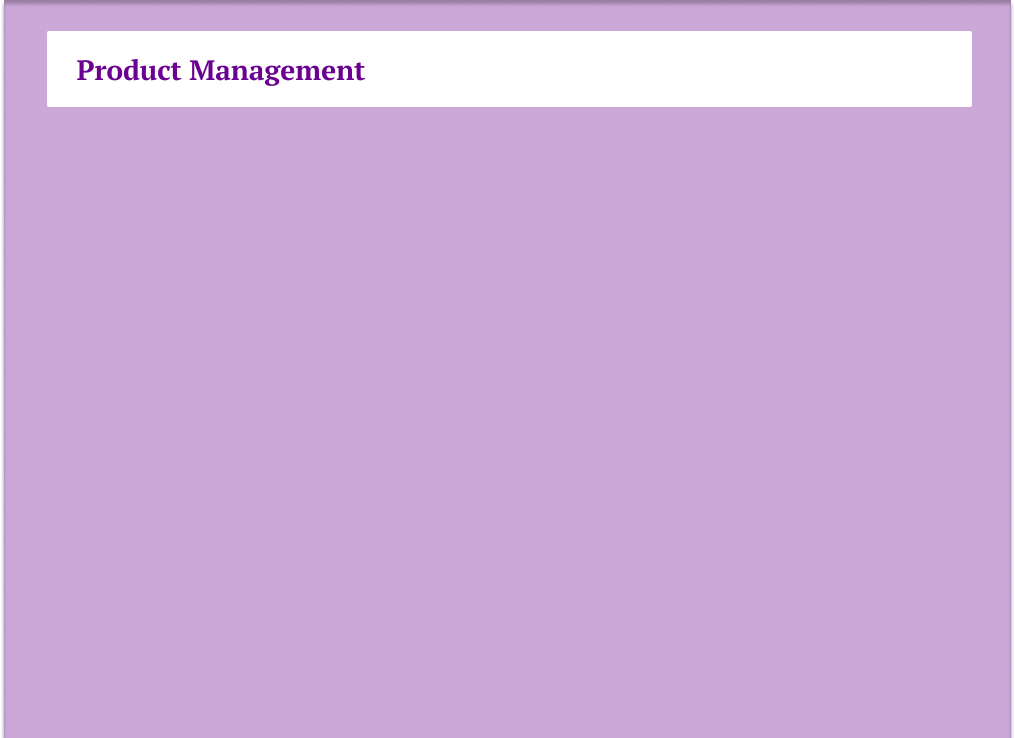
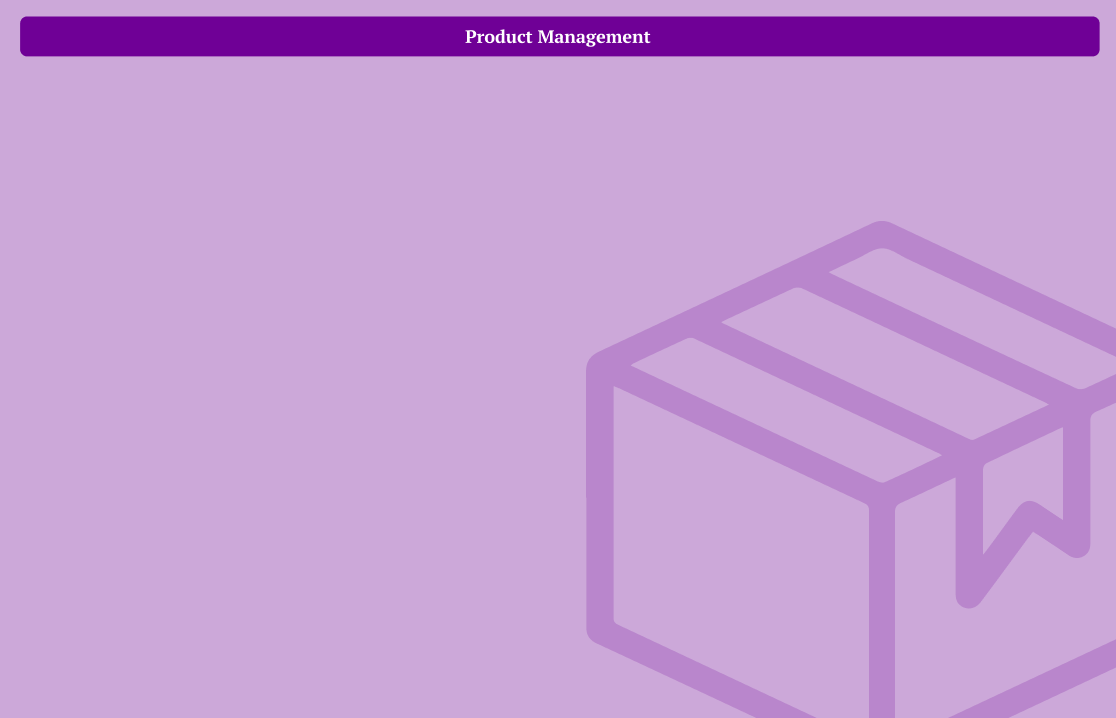
2023-11-16

Changed region(s): [[0.0, 0.0, 1.0, 1.0]]

diff --git a/src/main/java/com/zx/shopmanagementsystem/forms/ProductManagement.java b/src/main/java/com/zx/shopmanagementsystem/forms/ProductManagement.java
@@ -24,7 +24,7 @@ public class ProductManagement extends javax.swing.JPanel {
      */
     Func func = new Func();
     IconLocation il = new IconLocation();
-    
+
     public ProductManagement() {
         initComponents();
     }
@@ -46,7 +46,7 @@ public class ProductManagement extends javax.swing.JPanel {
         addStoreLocationBtnLbl = new javax.swing.JLabel();
         iconLbl = new javax.swing.JLabel();
 
-        setPreferredSize(new java.awt.Dimension(1015, 738));
+        setPreferredSize(new java.awt.Dimension(1116, 718));
         setLayout(new org.netbeans.lib.awtextra.AbsoluteLayout());
 
         addProductTypeBtnLbl.setIcon(new javax.swing.ImageIcon("C:\\ShopManagementSystem\\src\\main\\java\\com\\zx\\shopmanagementsystem\\icons\\AddProductTypePurple.png")); // NOI18N
@@ -140,99 +140,99 @@ public class ProductManagement extends javax.swing.JPanel {
         add(addStoreLocationBtnLbl, new org.netbeans.lib.awtextra.AbsoluteConstraints(660, 340, -1, -1));
 
         iconLbl.setIcon(new javax.swing.ImageIcon("C:\\ShopManagementSystem\\src\\main\\java\\com\\zx\\shopmanagementsystem\\images\\ProductManagement.png")); // NOI18N
-        add(iconLbl, new org.netbeans.lib.awtextra.AbsoluteConstraints(0, 0, 1015, 738));
+        add(iconLbl, new org.netbeans.lib.awtextra.AbsoluteConstraints(0, 0, 1116, 718));
     }// </editor-fold>//GEN-END:initComponents
 
     private void addProductBtnLblMouseEntered(java.awt.event.MouseEvent evt) {//GEN-FIRST:event_addProductBtnLblMouseEntered
         // TODO add your handling code here:
         func.iconSetter(addProductBtnLbl, il.addProductWhiteIcon);
     }//GEN-LAST:event_addProductBtnLblMouseEntered
-    
+
     private void addProductBtnLblMouseExited(java.awt.event.MouseEvent evt) {//GEN-FIRST:event_addProductBtnLblMouseExited
         // TODO add your handling code here:
         func.iconSetter(addProductBtnLbl, il.addProductPurpleIcon);
     }//GEN-LAST:event_addProductBtnLblMouseExited
-    
+
     private void addProductCategoryBtnLblMouseEntered(java.awt.event.MouseEvent evt) {//GEN-FIRST:event_addProductCategoryBtnLblMouseEntered
         // TODO add your handling code here:
         func.iconSetter(addProductCategoryBtnLbl, il.addProductCategoryWhiteIcon);
     }//GEN-LAST:event_addProductCategoryBtnLblMouseEntered
-    
+
     private void addProductCategoryBtnLblMouseExited(java.awt.event.MouseEvent evt) {//GEN-FIRST:event_addProductCategoryBtnLblMouseExited
         // TODO add your handling code here:
         func.iconSetter(addProductCategoryBtnLbl, il.addProductCategoryPurpleIcon);
     }//GEN-LAST:event_addProductCategoryBtnLblMouseExited
-    
+
     private void addProductTypeBtnLblMouseEntered(java.awt.event.MouseEvent evt) {//GEN-FIRST:event_addProductTypeBtnLblMouseEntered
         // TODO add your handling code here:
         func.iconSetter(addProductTypeBtnLbl, il.addProductTypeWhiteIcon);
     }//GEN-LAST:event_addProductTypeBtnLblMouseEntered
-    
+
     private void addProductTypeBtnLblMouseExited(java.awt.event.MouseEvent evt) {//GEN-FIRST:event_addProductTypeBtnLblMouseExited
         // TODO add your handling code here:
         func.iconSetter(addProductTypeBtnLbl, il.addProductTypePurpleIcon);
     }//GEN-LAST:event_addProductTypeBtnLblMouseExited
-    
+
     private void addDiscountBrnLblMouseEntered(java.awt.event.MouseEvent evt) {//GEN-FIRST:event_addDiscountBrnLblMouseEntered
         // TODO add your handling code here:
         func.iconSetter(addDiscountBrnLbl, il.addDiscountWhiteIcon);
     }//GEN-LAST:event_addDiscountBrnLblMouseEntered
-    
+
     private void addDiscountBrnLblMouseExited(java.awt.event.MouseEvent evt) {//GEN-FIRST:event_addDiscountBrnLblMouseExited
         // TODO add your handling code here:
         func.iconSetter(addDiscountBrnLbl, il.addDiscountPurpleIcon);
     }//GEN-LAST:event_addDiscountBrnLblMouseExited
-    
+
     private void addBarcodeBtnLblMouseEntered(java.awt.event.MouseEvent evt) {//GEN-FIRST:event_addBarcodeBtnLblMouseEntered
         // TODO add your handling code here:
         func.iconSetter(addBarcodeBtnLbl, il.addBarcodeWhiteIcon);
     }//GEN-LAST:event_addBarcodeBtnLblMouseEntered
-    
+
     private void addBarcodeBtnLblMouseExited(java.awt.event.MouseEvent evt) {//GEN-FIRST:event_addBarcodeBtnLblMouseExited
         // TODO add your handling code here:
         func.iconSetter(addBarcodeBtnLbl, il.addBarcodePurpleIcon);
     }//GEN-LAST:event_addBarcodeBtnLblMouseExited
-    
+
     private void addStoreLocationBtnLblMouseEntered(java.awt.event.MouseEvent evt) {//GEN-FIRST:event_addStoreLocationBtnLblMouseEntered
         // TODO add your handling code here:
         func.iconSetter(addStoreLocationBtnLbl, il.addStoreLocationWhiteIcon);
     }//GEN-LAST:event_addStoreLocationBtnLblMouseEntered
-    
+
     private void addStoreLocationBtnLblMouseExited(java.awt.event.MouseEvent evt) {//GEN-FIRST:event_addStoreLocationBtnLblMouseExited
         // TODO add your handling code here:
         func.iconSetter(addStoreLocationBtnLbl, il.addStoreLocationPurpleIcon);
     }//GEN-LAST:event_addStoreLocationBtnLblMouseExited
-    
+
     private void addBarcodeBtnLblMouseClicked(java.awt.event.MouseEvent evt) {//GEN-FIRST:event_addBarcodeBtnLblMouseClicked
         // TODO add your handling code here:
         AddBarcode addbarcode = new AddBarcode();
         addbarcode.setVisible(true);
     }//GEN-LAST:event_addBarcodeBtnLblMouseClicked
-    
+
     private void addDiscountBrnLblMouseClicked(java.awt.event.MouseEvent evt) {//GEN-FIRST:event_addDiscountBrnLblMouseClicked
         // TODO add your handling code here:
         AddDiscount ad = new AddDiscount();
         ad.setVisible(true);
     }//GEN-LAST:event_addDiscountBrnLblMouseClicked
-    
+
     private void addProductCategoryBtnLblMouseClicked(java.awt.event.MouseEvent evt) {//GEN-FIRST:event_addProductCategoryBtnLblMouseClicked
         // TODO add your handling code here:
         AddProductCategory apc = new AddProductCategory();
         apc.setVisible(true);
     }//GEN-LAST:event_addProductCategoryBtnLblMouseClicked
-    
+
     private void addProductTypeBtnLblMouseClicked(java.awt.event.MouseEvent evt) {//GEN-FIRST:event_addProductTypeBtnLblMouseClicked
         // TODO add your handling code here:
         AddProductType apt = new AddProductType();
         apt.setVisible(true);
     }//GEN-LAST:event_addProductTypeBtnLblMouseClicked
-    
+
     private void addStoreLocationBtnLblMouseClicked(java.awt.event.MouseEvent evt) {//GEN-FIRST:event_addStoreLocationBtnLblMouseClicked
         // TODO add your handling code here:
         AddStoreLocation asl = new AddStoreLocation();
         asl.setVisible(true);
     }//GEN-LAST:event_addStoreLocationBtnLblMouseClicked
-    
+
     private void addProductBtnLblMouseClicked(java.awt.event.MouseEvent evt) {//GEN-FIRST:event_addProductBtnLblMouseClicked
         // TODO add your handling code here:
         AddProduct ap = new AddProduct();

diff --git a/src/main/java/com/zx/shopmanagementsystem/ui/DashboardAdmin.java b/src/main/java/com/zx/shopmanagementsystem/ui/DashboardAdmin.java
@@ -19,7 +19,6 @@ import com.zx.shopmanagementsystem.forms.InvoiceCreation;
 import com.zx.shopmanagementsystem.forms.ProductManagement;
 import com.zx.shopmanagementsystem.forms.ProductPerformance;
 import com.zx.shopmanagementsystem.forms.ReportGeneration;
-import com.zx.shopmanagementsystem.forms.Settings;
 import com.zx.shopmanagementsystem.forms.SupplierManagement;
 import com.zx.shopmanagementsystem.forms.UserManagement;
 import com.zx.shopmanagementsystem.menu.ui.MenuEvent;
@@ -30,8 +29,6 @@ import java.awt.Toolkit;
 import java.io.File;
 import java.io.FileInputStream;
 import java.io.FileOutputStream;
-import java.io.FileWriter;
-import java.io.IOException;
 import java.io.InputStream;
 import java.sql.ResultSet;
 import java.util.Properties;
@@ -124,7 +121,7 @@ public class DashboardAdmin extends javax.swing.JFrame {
         setUndecorated(true);
         setResizable(false);
 
-        jPanel1.setPreferredSize(new java.awt.Dimension(1366, 770));
+        jPanel1.setPreferredSize(new java.awt.Dimension(1366, 768));
 
         header1.setPreferredSize(new java.awt.Dimension(167, 50));
         header1.addMouseListener(new java.awt.event.MouseAdapter() {
@@ -178,16 +175,22 @@ public class DashboardAdmin extends javax.swing.JFrame {
                 .addContainerGap()
                 .addGroup(header1Layout.createParallelGroup(javax.swing.GroupLayout.Alignment.LEADING)
                     .addGroup(header1Layout.createSequentialGroup()
-                        .addGroup(header1Layout.createParallelGroup(javax.swing.GroupLayout.Alignment.LEADING)
-                            .addComponent(closeBtnLbl)
-                            .addComponent(minimizeBtnLbl))
-                        .addGap(0, 8, Short.MAX_VALUE))
+                        .addGap(17, 17, 17)
+                        .addComponent(minimizeBtnLbl)
+                        .addGap(0, 18, Short.MAX_VALUE))
                     .addComponent(imageAvatar, javax.swing.GroupLayout.Alignment.TRAILING, javax.swing.GroupLayout.DEFAULT_SIZE, javax.swing.GroupLayout.DEFAULT_SIZE, Short.MAX_VALUE))
                 .addContainerGap())
+            .addGroup(header1Layout.createSequentialGroup()
+                .addGap(15, 15, 15)
+                .addComponent(closeBtnLbl)
+                .addContainerGap(javax.swing.GroupLayout.DEFAULT_SIZE, Short.MAX_VALUE))
         );
 
         scrollPaneWin111.setBorder(null);
         scrollPaneWin111.setViewportView(menu1);
+
+        body.setPreferredSize(new java.awt.Dimension(1116, 718));
+        body.setLayout(new javax.swing.BoxLayout(body, javax.swing.BoxLayout.LINE_AXIS));
 
         javax.swing.GroupLayout jPanel1Layout = new javax.swing.GroupLayout(jPanel1);
         jPanel1.setLayout(jPanel1Layout);
@@ -204,8 +207,8 @@ public class DashboardAdmin extends javax.swing.JFrame {
             .addGroup(jPanel1Layout.createSequentialGroup()
                 .addComponent(header1, javax.swing.GroupLayout.PREFERRED_SIZE, javax.swing.GroupLayout.DEFAULT_SIZE, javax.swing.GroupLayout.PREFERRED_SIZE)
                 .addGroup(jPanel1Layout.createParallelGroup(javax.swing.GroupLayout.Alignment.LEADING)
-                    .addComponent(scrollPaneWin111, javax.swing.GroupLayout.DEFAULT_SIZE, 718, Short.MAX_VALUE)
-                    .addComponent(body, javax.swing.GroupLayout.DEFAULT_SIZE, 718, Short.MAX_VALUE)))
+                    .addComponent(scrollPaneWin111, javax.swing.GroupLayout.DEFAULT_SIZE, javax.swing.GroupLayout.DEFAULT_SIZE, Short.MAX_VALUE)
+                    .addComponent(body, javax.swing.GroupLayout.PREFERRED_SIZE, 718, javax.swing.GroupLayout.PREFERRED_SIZE)))
         );
 
         javax.swing.GroupLayout layout = new javax.swing.GroupLayout(getContentPane());
@@ -216,7 +219,7 @@ public class DashboardAdmin extends javax.swing.JFrame {
         );
         layout.setVerticalGroup(
             layout.createParallelGroup(javax.swing.GroupLayout.Alignment.LEADING)
-            .addComponent(jPanel1, javax.swing.GroupLayout.DEFAULT_SIZE, 768, Short.MAX_VALUE)
+            .addComponent(jPanel1, javax.swing.GroupLayout.DEFAULT_SIZE, javax.swing.GroupLayout.DEFAULT_SIZE, Short.MAX_VALUE)
         );
 
         pack();

diff --git a/src/main/java/com/zx/shopmanagementsystem/ui/NewDebt.java b/src/main/java/com/zx/shopmanagementsystem/ui/NewDebt.java
@@ -22,6 +22,8 @@ import java.net.Socket;
 import java.sql.PreparedStatement;
 import java.sql.ResultSet;
 import java.text.SimpleDateFormat;
+import java.time.LocalDate;
+import java.time.format.DateTimeFormatter;
 import java.util.ArrayList;
 import java.util.Date;
 import java.util.HashMap;
@@ -565,15 +567,19 @@ public class NewDebt extends javax.swing.JFrame {
             }
 
             if (totalPrice > payment) {
-                double outstandingAmount = totalPrice - payment;
-                String outstandingBalancePrice = String.format("%.2f", outstandingAmount);
-                generateInvoiceBill(invoiceData, outstandingBalancePrice);
-                updateStockAndCalculateProfit(model, outstandingBalancePrice);
-                clear();
-                tableDataClear();
-                DialogBox.showMessage("Payment Successfull !!!", "Payment Successfull\n Outstanding Balance : " + outstandingBalancePrice, 1);
+                if (isValidDate(nextPayDate)) {
+                    double outstandingAmount = totalPrice - payment;
+                    String outstandingBalancePrice = String.format("%.2f", outstandingAmount);
+                    generateInvoiceBill(invoiceData, outstandingBalancePrice);
+                    updateStockAndCalculateProfit(model, outstandingBalancePrice);
+                    clear();
+                    tableDataClear();
+                    DialogBox.showMessage("Payment Successfull !!!", "Payment Successfull\n Outstanding Balance : " + outstandingBalancePrice, 1);
+                } else {
+                    DialogBox.showMessage("Error!!!", "Please select a date equal or greater \nthan\n" + LocalDate.now().plusDays(1), 3);
+                }
             } else {
-
+                DialogBox.showMessage("Error!!!", "Payment is greater than debt amount\nPlease use Invoice Creation.\nOr enter 0 or less amount.", 3);
             }
         } else {
             System.out.println("No");
@@ -1105,6 +1111,28 @@ public class NewDebt extends javax.swing.JFrame {
         } catch (Exception ex) {
             System.err.println("New Debt -> SaveDebt : " + ex.getMessage());
         }
+    }
+
+    public boolean isValidDate(String inputDate) {
+        boolean value;
+        try {
+            // Parse the input date
+            DateTimeFormatter formatter = DateTimeFormatter.ofPattern("yyyy-MM-dd");
+            String curDate = String.valueOf(LocalDate.now());
+            LocalDate currentDate = LocalDate.parse(curDate, formatter);
+            LocalDate enteredDate = LocalDate.parse(inputDate, formatter);
+
+            System.out.println("currentDate : " + currentDate);
+            System.out.println("enteredDate : " + enteredDate);
+
+            // Check if enteredDate is greater than one day from the current date
+            value = enteredDate.isAfter(currentDate);
+        } catch (Exception e) {
+            // Handle parsing exceptions (e.g., invalid date format)
+            value = false;
+        }
+        System.out.println(value);
+        return value;
     }
 
 }

diff --git a/src/main/java/com/zx/shopmanagementsystem/menu/ui/Menu.java b/src/main/java/com/zx/shopmanagementsystem/menu/ui/Menu.java
@@ -13,15 +13,15 @@ import javax.swing.JPanel;
 import net.miginfocom.swing.MigLayout;
 
 public class Menu extends JComponent {
-    
+
     public MenuEvent getEvent() {
         return event;
     }
-    
+
     public void setEvent(MenuEvent event) {
         this.event = event;
     }
-    
+
     private MenuEvent event;
     private MigLayout layout;
     private String[][] menuItems = new String[][]{
@@ -38,11 +38,11 @@ public class Menu extends JComponent {
         {"Help and Documentation"},
         {"Log Out"}
     };
-    
+
     public Menu() {
         init();
     }
-    
+
     private void init() {
         layout = new MigLayout("wrap 1, fillx, gapy 0, inset 2", "fill");
         setLayout(layout);
@@ -51,9 +51,9 @@ public class Menu extends JComponent {
         for (int i = 0; i < menuItems.length; i++) {
             addMenu(menuItems[i][0], i);
         }
-        
+
     }
-    
+
     private Icon getIcon(int index) {
         String url = "C:\\ShopManagementSystem\\src\\main\\java\\com\\zx\\shopmanagementsystem\\icons\\dashboard\\icons\\" + index + ".png";
         if (url != null) {
@@ -62,7 +62,7 @@ public class Menu extends JComponent {
             return null;
         }
     }
-    
+
     private void addMenu(String menuName, int index) {
         int length = menuItems[index].length;
         MenuItem item = new MenuItem(menuName, index, length > 1);
@@ -93,7 +93,7 @@ public class Menu extends JComponent {
         revalidate();
         repaint();
     }
-    
+
     private void addSubMenu(MenuItem item, int index, int length, int indexZorder) {
         JPanel panel = new JPanel(new MigLayout("wrap 1, fillx, inset 0, gapy 0", "fill"));
         panel.setName(index + "");
@@ -116,7 +116,7 @@ public class Menu extends JComponent {
         repaint();
         MenuAnimation.showMenu(panel, item, layout, true);
     }
-    
+
     private void hideMenu(MenuItem item, int index) {
         for (Component com : getComponents()) {
             if (com instanceof JPanel && com.getName() != null && com.getName().equals(index + "")) {
@@ -126,13 +126,13 @@ public class Menu extends JComponent {
             }
         }
     }
-    
+
     @Override
     protected void paintComponent(Graphics grphcs) {
         Graphics2D g2 = (Graphics2D) grphcs.create();
-        g2.setColor(Color.decode("#711bb3"));
+        g2.setColor(Color.decode("#6f0096"));
         g2.fill(new Rectangle2D.Double(0, 0, getWidth(), getHeight()));
         super.paintComponent(grphcs);
     }
-    
+
 }

diff --git a/src/main/java/com/zx/shopmanagementsystem/menu/ui/MenuItem.java b/src/main/java/com/zx/shopmanagementsystem/menu/ui/MenuItem.java
@@ -94,7 +94,7 @@ public class MenuItem extends JButton {
         this.subMenuIndex = subMenuIndex;
         this.length = length;
         setBorder(new EmptyBorder(9, 33, 9, 10));
-        setBackground(Color.decode("#52157d"));
+        setBackground(Color.decode("#44015c"));
         setOpaque(true);
     }
 
@@ -104,7 +104,7 @@ public class MenuItem extends JButton {
         Graphics2D g2 = (Graphics2D) grphcs.create();
         g2.setRenderingHint(RenderingHints.KEY_ANTIALIASING, RenderingHints.VALUE_ANTIALIAS_ON);
         if (length != 0) {
-            g2.setColor(Color.decode("#52157d"));
+            g2.setColor(Color.decode("#44015c"));
             if (subMenuIndex == 1) {
                 //  First Index
                 g2.drawImage(shadow, -shadowSize, -20, null);

diff --git a/src/main/java/com/zx/shopmanagementsystem/components/Header.java b/src/main/java/com/zx/shopmanagementsystem/components/Header.java
@@ -20,7 +20,7 @@ public class Header extends javax.swing.JPanel {
     @Override
     protected void paintComponent(Graphics grphcs) {
         Graphics2D g2 = (Graphics2D) grphcs.create();
-        g2.setPaint(new GradientPaint(0, 0, new Color(82, 21, 125), 0, getHeight(), new Color(113, 27, 179)));
+        g2.setPaint(new GradientPaint(0, 0, Color.decode("#44015c"), 0, getHeight(), Color.decode("#6f0096")));
         g2.fill(new Rectangle2D.Double(0, 0, getWidth(), getHeight()));
         g2.dispose();
         super.paintComponent(grphcs);

diff --git a/src/main/java/com/zx/shopmanagementsystem/ui/AddBarcode.java b/src/main/java/com/zx/shopmanagementsystem/ui/AddBarcode.java
@@ -56,6 +56,7 @@ public class AddBarcode extends javax.swing.JFrame {
                             System.out.println("Same Value");
                         } else if (line.equals("Done")) {
                             System.out.println("Done");
+                            socket.close();
                         } else if (line.startsWith("QRCODE")) {
                             System.out.println("it is a QR");
                             //jsonRead(line.substring(6));  // Remove "QRCODE" prefix and update text
